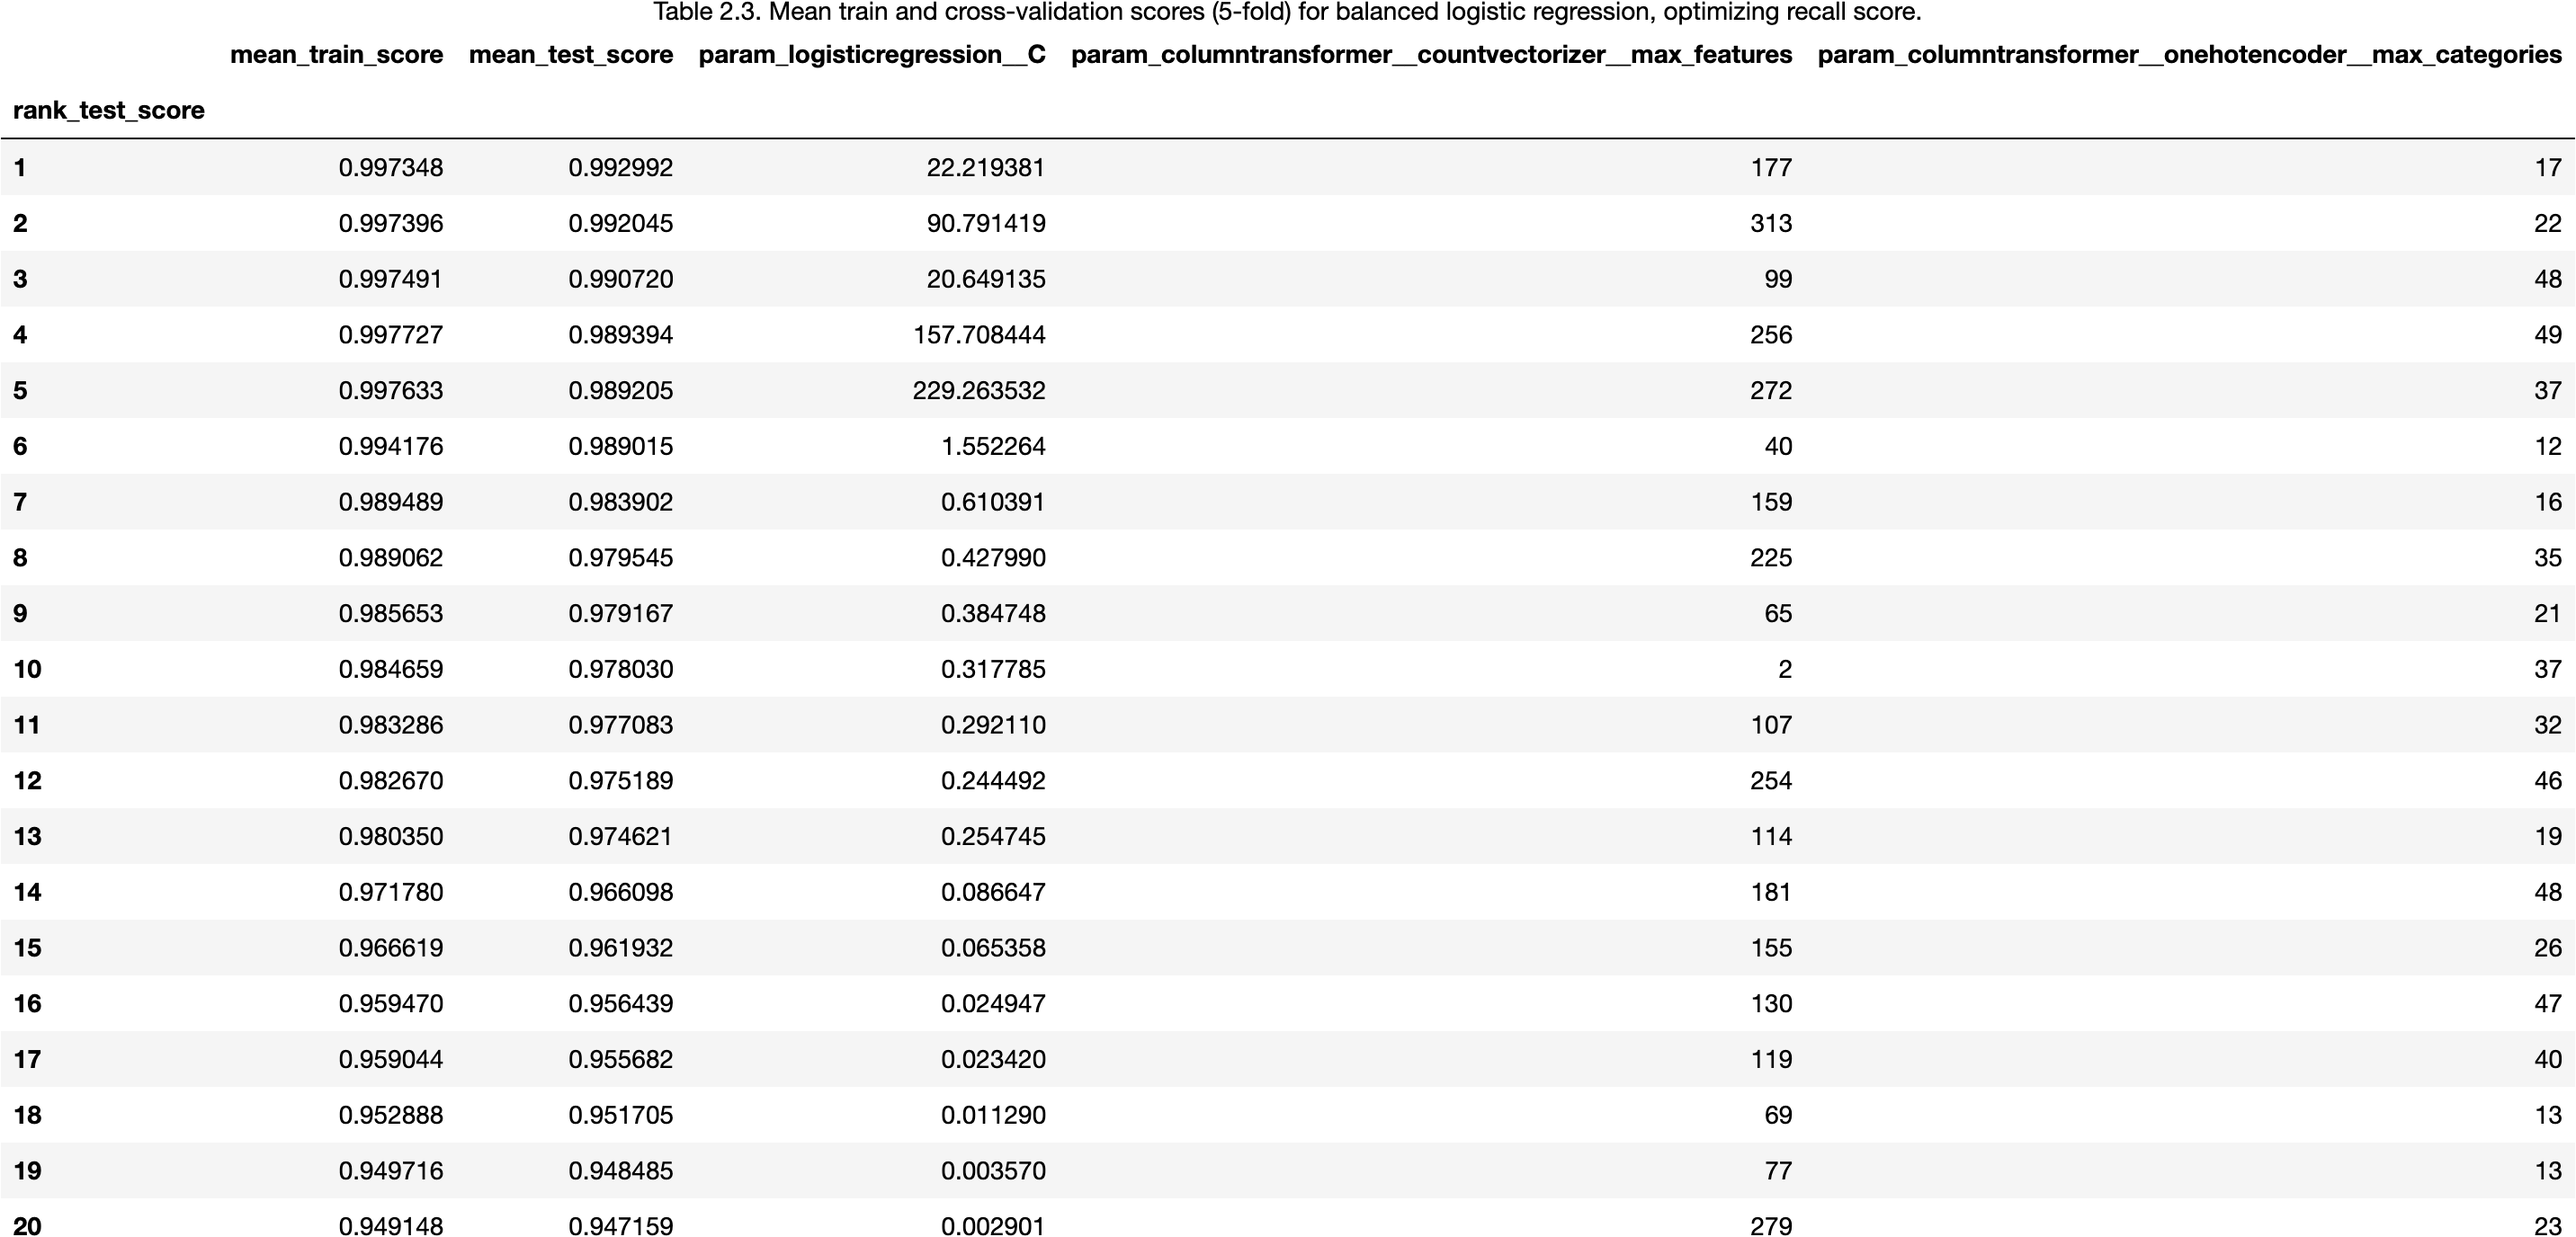
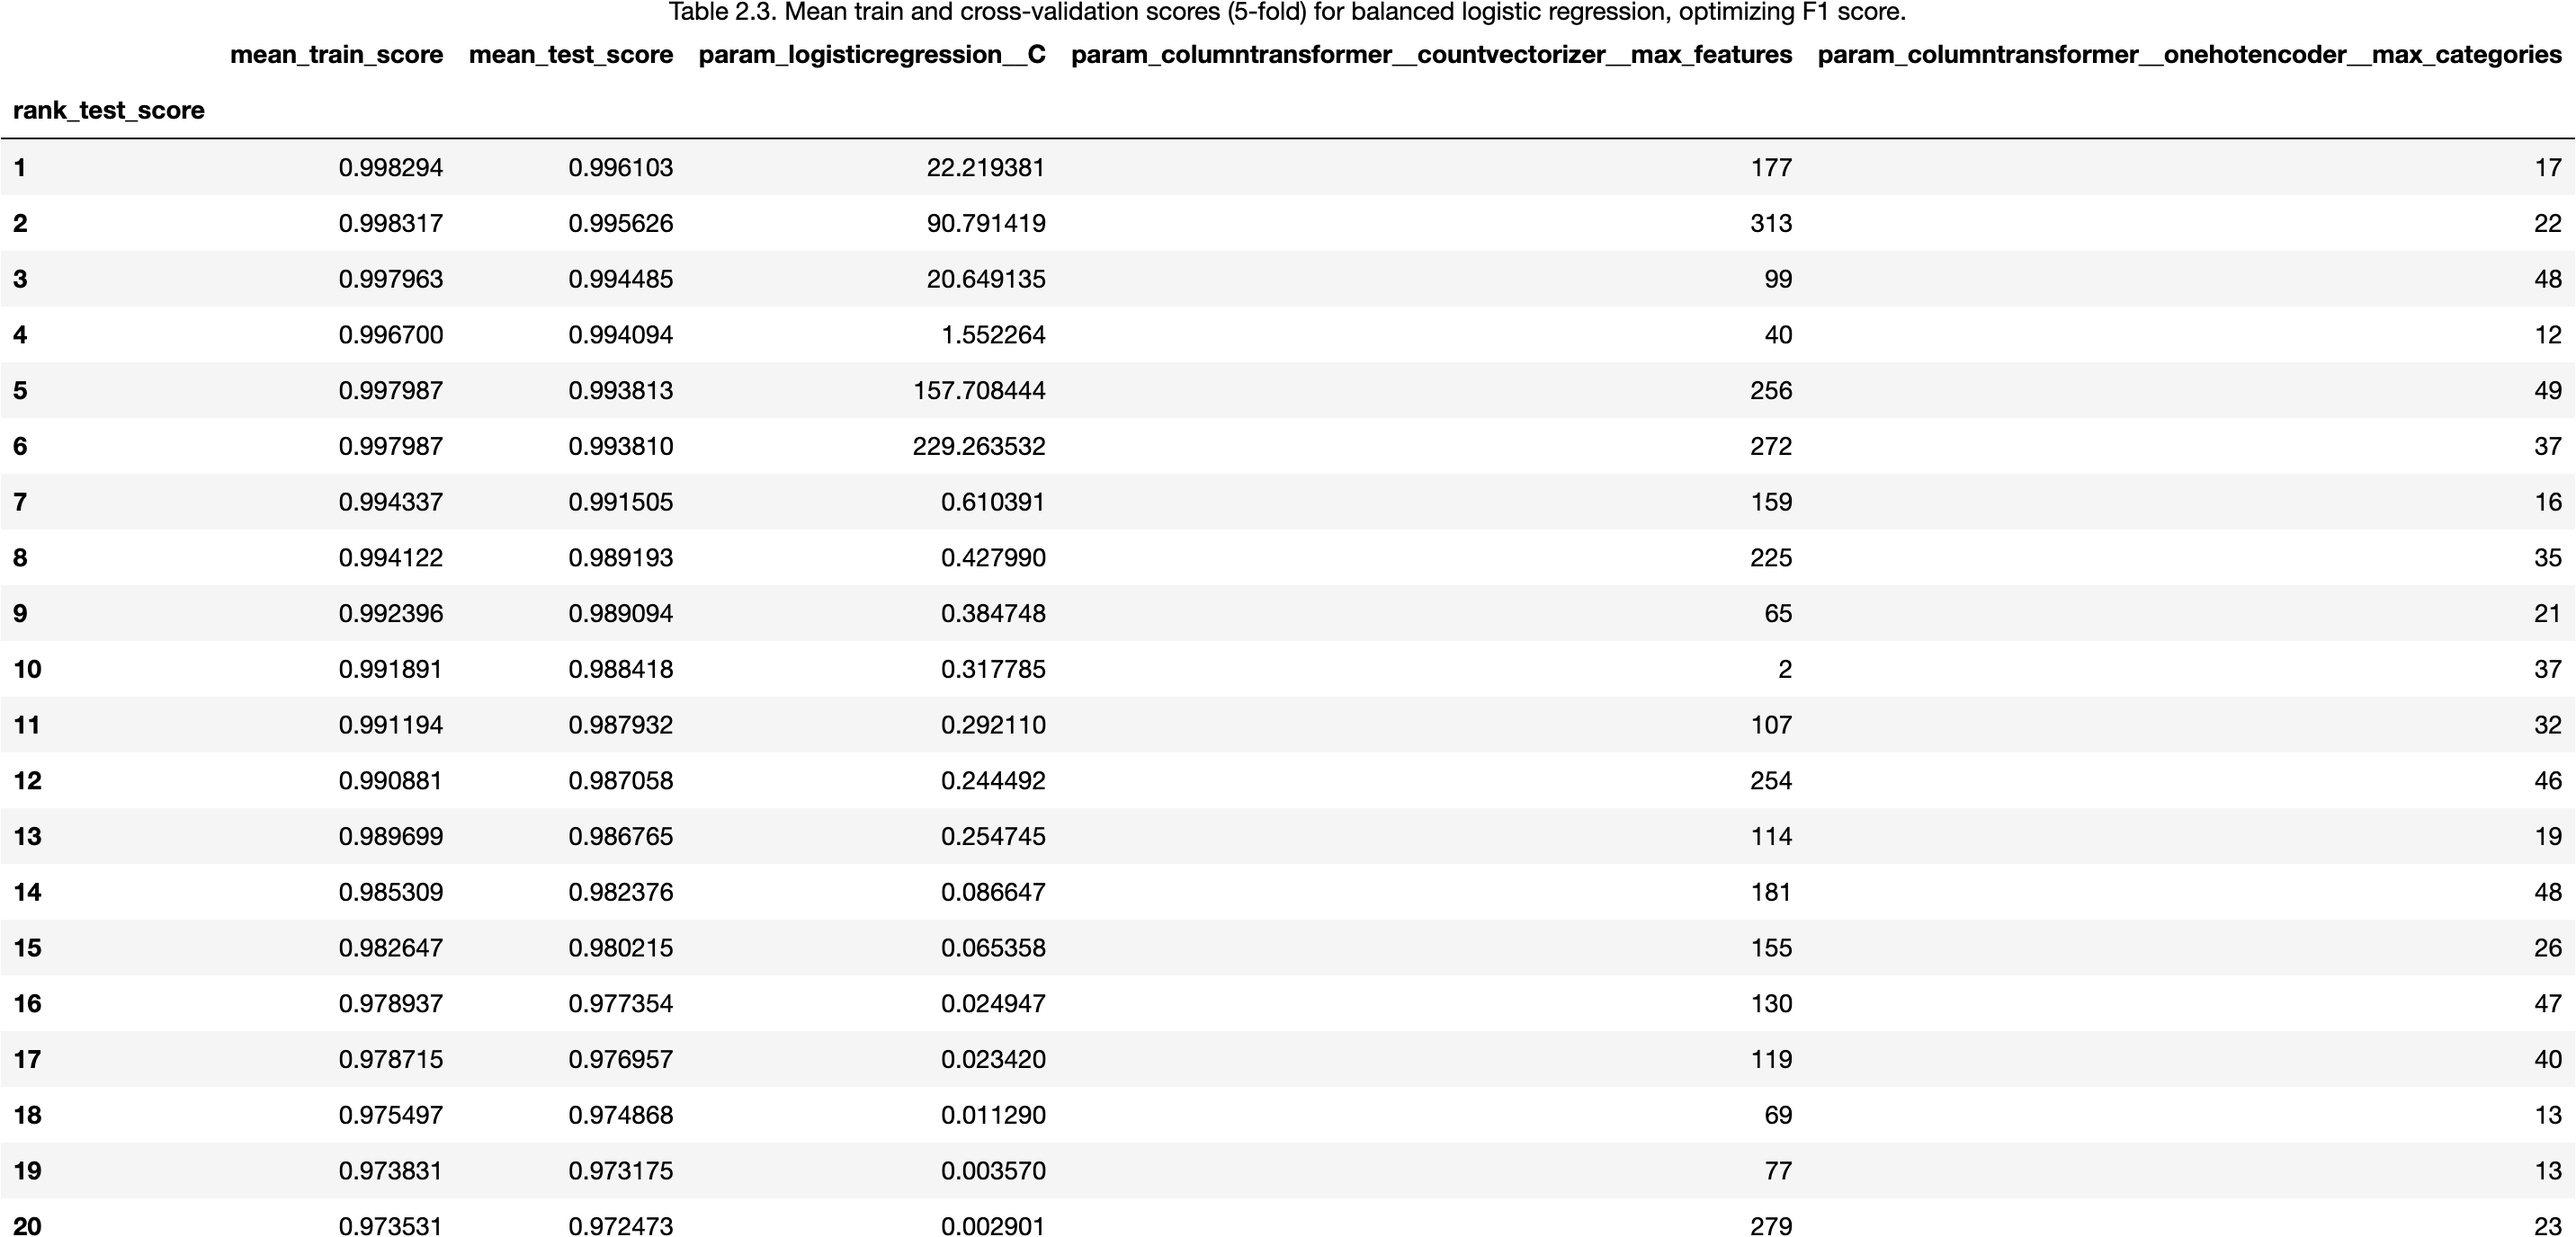
Rename script and add curve plots

diff --git a/src/nyc_rest_analysis.py b/src/nyc_rest_analysis.py
@@ -4,14 +4,15 @@
 """
 Takes the preprocessed training and test data and does cross validation with logistic regression and svm classifier - finds logistic regression to be the better model and does hyperparameter tuning to get the best hyperparameters. It then fits this trained model on the unseen data (test dataset).
    
-Usage: src/nyc_rest_results.py --train_data=<train_input_file> --test_data=<test_input_file> --output_dir=<output_directory>
+Usage: src/nyc_rest_analysis.py --train_data=<train_input_file> --test_data=<test_input_file> --output_dir=<output_directory>
 
 Options:
 --train_data=<train_input_file>       Path of the input file that contains the train data
 --test_data=<test_input_file>       Path of the input file that contains the test data
 --output_dir=<output_directory>       Path of the output file where results of the analysis will be stored 
+
 Command to run the script:
-python src/nyc_rest_results.py --train_data='./data/processed/train_df.csv' --test_data='./data/processed/test_df.csv' --output_dir='./results'
+python src/nyc_rest_analysis.py --train_data='./data/processed/train_df.csv' --test_data='./data/processed/test_df.csv' --output_dir='./results'
 """
 
 # REFERENCE : code to plot PR curve referenced from 573 lecture 1 notes
@@ -48,17 +49,6 @@ def main(train_data, test_data, output_dir):
     to get the best hyperparameter values. It then fits this trained model on the
     unseen data (test_data)
 
-    Outputs:
-        - results table of mean train/validation scores from all models
-        - results table of standard deviation in train/validation scores from all models
-        - hyperparameter tuning results on optimal classifier
-        - train/validation scores from the best model
-        - classification report from the best model on the test set
-        - confusion matrices from the best model on train and test set
-        - PR curve
-        - ROC curve
-        - the model saved as a pickle file
-    
     Parameters
     ----------
     train_data : string
@@ -67,6 +57,18 @@ def main(train_data, test_data, output_dir):
         Relative path of the file which contains the preprocessed testing data
     output_dir : string
         Relative path of the directory where results will be shared
+    
+    Returns
+    --------
+    Results table of mean train/validation scores from all models
+    Results table of standard deviation in train/validation scores from all models
+    Hyperparameter tuning results on optimal classifier
+    Train/validation scores from the best model
+    Classification report from the best model on the test set
+    Confusion matrices from the best model on train and test set
+    PR curve from test set
+    ROC curve from test set
+    Best model saved as a pickle file
     
     """ 
     # Verify that results directory exists; if not, creates a new folder
@@ -183,7 +185,7 @@ def main(train_data, test_data, output_dir):
     param_dist = {'logisticregression__C' : loguniform(1e-3, 1e3),
                   'columntransformer__countvectorizer__max_features' : randint(1, len_vocab),
                   'columntransformer__onehotencoder__max_categories' : randint(10, 50)}
-    random_search = RandomizedSearchCV(pipe_bal_lr, param_dist, n_iter=20, n_jobs=-1, random_state=123, return_train_score=True, scoring=make_scorer(recall_score, pos_label='F'))
+    random_search = RandomizedSearchCV(pipe_bal_lr, param_dist, n_iter=20, n_jobs=-1, random_state=123, return_train_score=True, scoring=make_scorer(f1_score, pos_label='F'))
     print("Fitting the optimized model")
     random_search.fit(X_train, y_train)
 
@@ -191,11 +193,12 @@ def main(train_data, test_data, output_dir):
     random_cv_df = pd.DataFrame(random_search.cv_results_)[['mean_train_score', 'mean_test_score', 'param_logisticregression__C',
                                                             'param_columntransformer__countvectorizer__max_features',
                                                             'param_columntransformer__onehotencoder__max_categories', 'rank_test_score']].set_index("rank_test_score").sort_index()
-    random_cv_df = random_cv_df.style.set_caption('Table 2.3. Mean train and cross-validation scores (5-fold) for balanced logistic regression, optimizing recall score.')
+    random_cv_df = random_cv_df.style.set_caption('Table 2.3. Mean train and cross-validation scores (5-fold) for balanced logistic regression, optimizing F1 score.')
     dfi.export(random_cv_df, output_dir + "/hyperparam_results.png")
 
     print("\nDoing cross validation using the best parameters...")
     best_model_table = pd.DataFrame(cross_validate(random_search.best_estimator_, X_train, y_train, return_train_score=True, scoring=classification_metrics)).agg(['mean', 'std']).round(3).T
+    best_model_table = best_model_table.drop(['fit_time', 'score_time'])
     best_model_table = best_model_table.style.set_caption(
         'Table 2.4. Mean and standard deviation of train and validation scores for the balanced logistic regression model.\nParameters: C = ' +
         str(random_search.best_params_['logisticregression__C']) +
@@ -222,6 +225,7 @@ def main(train_data, test_data, output_dir):
     cm_plot.savefig(output_dir + '/confusion_matrices.png')
 
     # Create and save PR curve for the best model
+    print('Creating PR curve...')
     pr_curve, pr_ax = plt.subplots()
     PrecisionRecallDisplay.from_estimator(random_search.best_estimator_, X_test, y_test, pos_label='F', ax=pr_ax)
     pr_ax.plot(
@@ -233,14 +237,21 @@ def main(train_data, test_data, output_dir):
     )
     pr_ax.legend(loc="best")
     pr_curve.savefig(output_dir + '/PR_curve.png')
-    
-#     # saving the model
-#     filename = 'finalized_model.sav'
-#     pickle.dump(pipe_lr, open(output_dir + filename, 'wb'))
 
-#     # to load the model
-#     # loaded_model = pickle.load(open(output_dir + filename, 'rb'))
-#     # result = loaded_model.score(X_test, Y_test)
+    # Create and save ROC curve for the best model
+    print('Creating ROC curve...')
+    roc_curve, roc_ax = plt.subplots()
+    RocCurveDisplay.from_estimator(random_search.best_estimator_, X_test, y_test, pos_label='F', ax=roc_ax)
+    roc_ax.legend(loc="best")
+    roc_curve.savefig(output_dir + '/ROC_curve.png')
+    
+    # saving the model
+    print('Exporting the best model...')
+    pickle.dump(random_search.best_estimator_, open(output_dir + '/best_model.pkl', 'wb'))
+
+    ### TO LOAD THE MODEL
+    # loaded_model = pickle.load(open(output_dir + 'best_model.pkl', 'rb'))
+    # result = loaded_model.score(X_test, y_test)
 
 if __name__ == "__main__":
     main(opt["--train_data"], opt["--test_data"], opt["--output_dir"])
